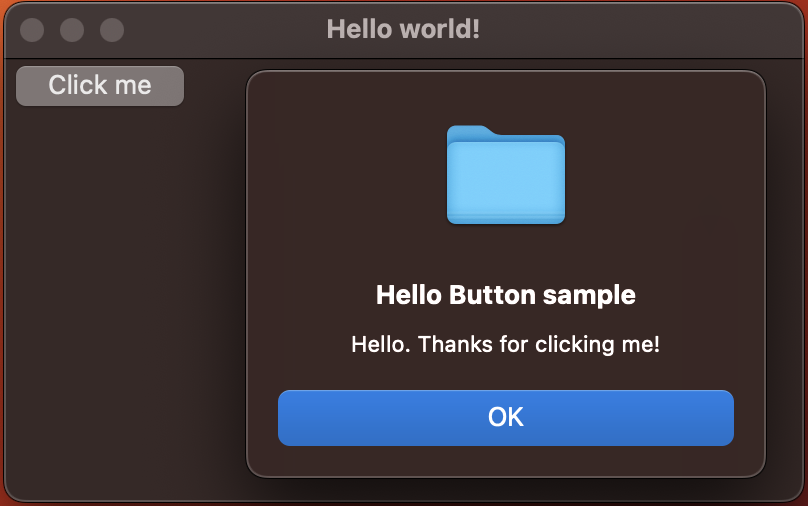
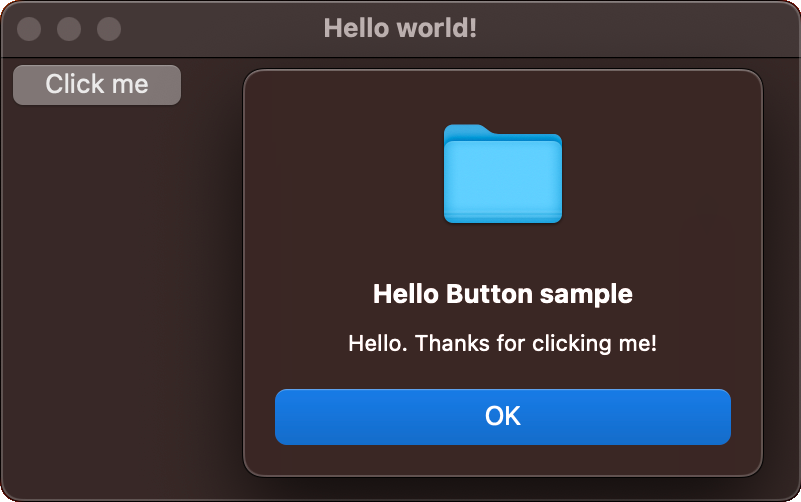
update screenshots

diff --git a/README.md b/README.md
@@ -35,7 +35,7 @@ Wx::App.run do
 end
 ```
 
-![Hello_World](assets/hello_world.png "Hello World sample")
+![Hello_World](assets/hello_world_combi.png "Hello World sample")
 
 ### Hello Button
 
@@ -58,8 +58,7 @@ end
 Wx::App.run { TheFrame.new('Hello world!').show }
 ```
 
-![Hello_Button](assets/hello_button.png "Hello Button sample")
-![Hello_Button_Clicked](assets/hello_button_clicked.png "Hello Button sample clicked")
+![Hello_Button_Clicked](assets/hello_button_clicked_combi.png "Hello Button sample clicked")
 
 
 ## wxRuby3 licence
